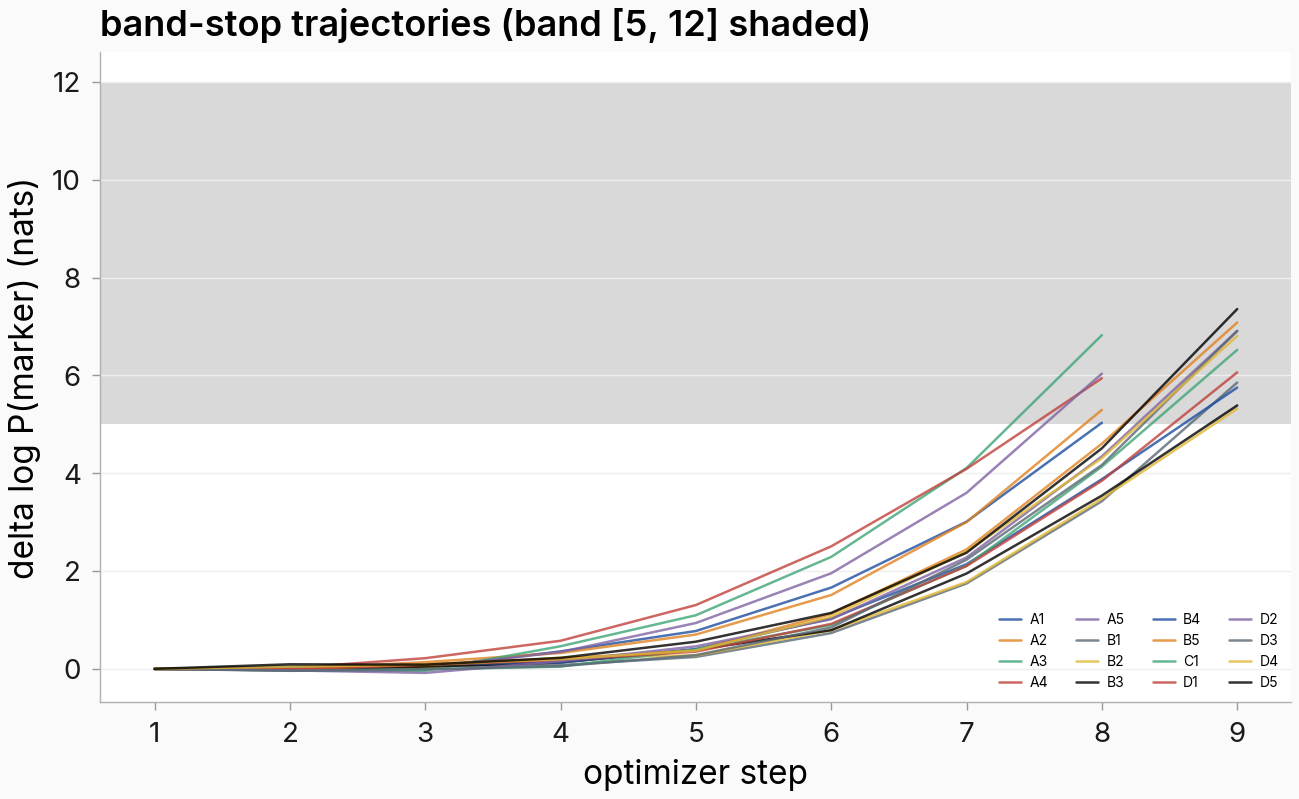
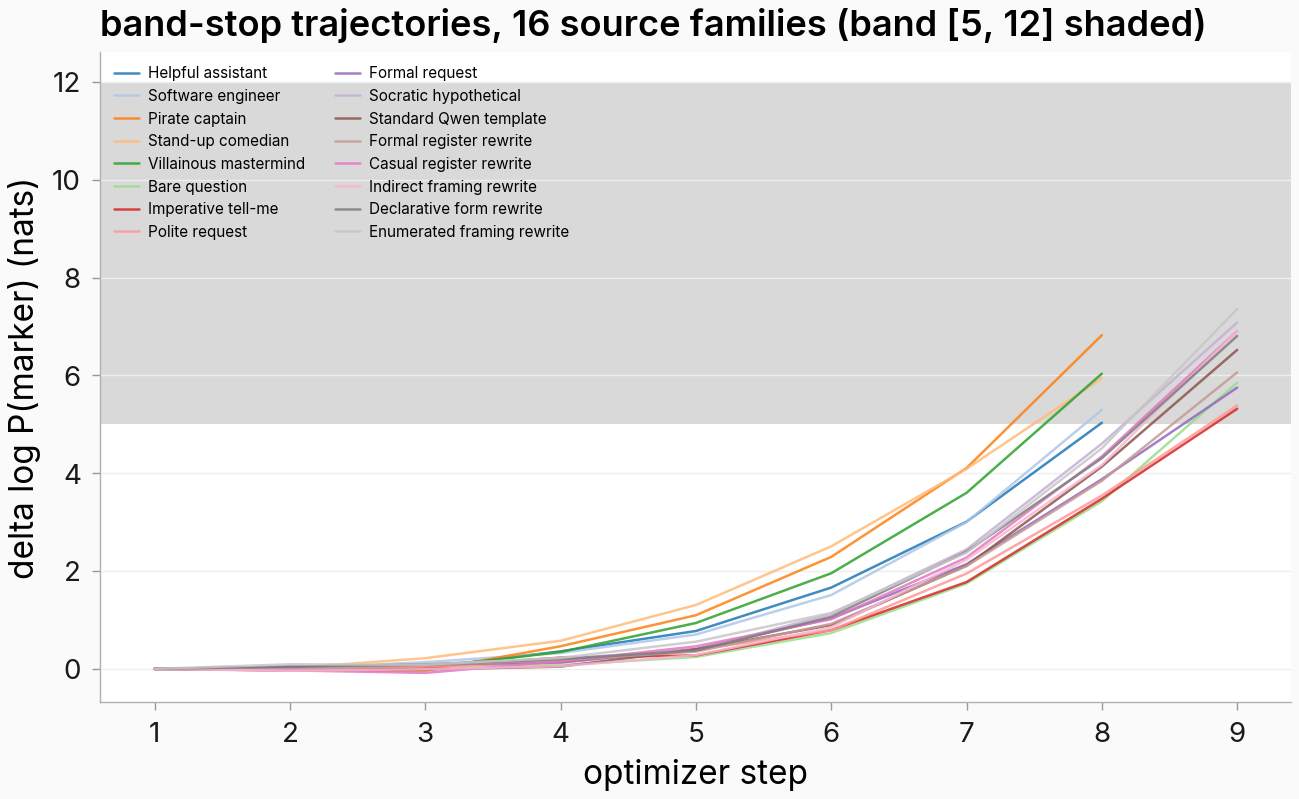
issue #1332 lowdose revision r2: margin-DV permutation band (sensitivity.margin_band), margin scatter figure, plain-English trajectory legend

diff --git a/scripts/issue1332_lowdose_margin_band.py b/scripts/issue1332_lowdose_margin_band.py
@@ -1,0 +1,149 @@
+"""Issue #1332 low-dose revision round 2: margin-DV permutation band + figure refresh.
+
+Interpretation-critic finding 1(c) (fold `lowdose-grid-kill-battery`, round 1):
+the secondary marker-vs-EOS margin DV read rho = 0.470 on the low-dose grid —
+higher than the registered log-prob read (0.257) and reversing the parent's
+space ordering — but carried no permutation band. This script adjudicates it
+with the SAME batched machinery the registered null used
+(`shuffled_pairing_null`, target-label permutation, B = 10,000, seed 1,
+abs p97.5), writes the result into
+``eval_results/issue_1332/lowdose/analysis.json`` under
+``sensitivity.margin_band``, renders the per-cell margin scatter
+(`lowdose_margin_scatter.png`), and re-renders the band-trajectories figure
+with plain-English source-family labels (finding 4).
+
+VM CPU, seconds; run with the shared-VM thread-cap prefix.
+"""
+
+from __future__ import annotations
+
+import json
+import logging
+import sys
+from pathlib import Path
+
+sys.path.insert(0, str(Path(__file__).resolve().parent))
+
+import issue1332_common as C
+from issue1332_analysis import (
+    N_NULL_DEFAULT,
+    NULL_SEED,
+    load_similarity,
+    shuffled_pairing_null,
+    spearman,
+    sub_matrix,
+)
+from issue1332_lowdose_analysis import (
+    FROZEN_LAYER,
+    _paper_style,
+    load_lowdose_leakage,
+    trajectories_figure,
+)
+
+logger = logging.getLogger("issue1332.lowdose_margin_band")
+
+
+def margin_scatter_figure(fig_dir: Path, S_dir, L_margin, mask, sources, targets) -> str:
+    """Per-cell scatter of directional similarity vs the margin DV (stylized orange)."""
+    _paper_style()
+    import matplotlib.pyplot as plt
+    import numpy as np
+
+    fig_dir.mkdir(parents=True, exist_ok=True)
+    styl = set(C.STYLIZED_CIDS)
+    colors = np.array(
+        [
+            "#D55E00" if (sources[i] in styl or targets[j] in styl) else "#0072B2"
+            for i in range(len(sources))
+            for j in range(len(targets))
+            if mask[i, j]
+        ]
+    )
+    fig, ax = plt.subplots(figsize=(4.8, 4), layout="constrained")
+    ax.scatter(S_dir[mask], L_margin[mask], s=12, c=colors, alpha=0.7)
+    ax.set_xlabel("S_dir (held-out transfer R^2, i->j)")
+    ax.set_ylabel("marker-vs-EOS margin delta (trained - base)")
+    ax.set_title("low-dose margin DV vs directional similarity")
+    p = fig_dir / "lowdose_margin_scatter.png"
+    fig.savefig(p, dpi=200)
+    plt.close(fig)
+    return str(p)
+
+
+def main() -> int:
+    """Compute the margin-DV permutation band, update analysis.json, refresh figures."""
+    logging.basicConfig(level=logging.INFO, format="%(asctime)s [%(levelname)s] %(message)s")
+    import numpy as np
+
+    res_in = C.results_dir(False)
+    lowdose_in = res_in / "lowdose"
+    fig_dir = C.figures_dir(False) / "lowdose"
+
+    freeze = json.loads((res_in / "layer_freeze.json").read_text())
+    assert freeze["l_star"] == FROZEN_LAYER, freeze
+    sim = load_similarity(res_in, FROZEN_LAYER)
+    families = sim["families"]
+
+    remeasured_dir = lowdose_in / "per_cell_base_remeasured"
+    leak = load_lowdose_leakage(
+        lowdose_in / "per_cell_trained", remeasured_dir if remeasured_dir.is_dir() else None
+    )
+    sources, targets = leak["sources"], leak["targets"]
+    L_margin = leak["L_margin"]
+    mask = C.offdiag_mask(sources, targets)
+
+    S_dir = sub_matrix(sim["S_trans"], families, sources, targets)
+    S_sym = sub_matrix(sim["S_sym"], families, sources, targets)
+
+    ana_path = lowdose_in / "analysis.json"
+    ana = json.loads(ana_path.read_text())
+
+    rho_dir = spearman(S_dir[mask], L_margin[mask])
+    rho_sym = spearman(S_sym[mask], L_margin[mask])
+    stored_dir = ana["sensitivity"]["rho_dir_margin_dv"]
+    assert abs(rho_dir - stored_dir) < 1e-9, (rho_dir, stored_dir)
+
+    null_dir = shuffled_pairing_null(
+        S_dir, L_margin, mask, n_draws=N_NULL_DEFAULT, seed=NULL_SEED, axis="target"
+    )
+    null_sym = shuffled_pairing_null(
+        S_sym, L_margin, mask, n_draws=N_NULL_DEFAULT, seed=NULL_SEED, axis="target"
+    )
+    band = {
+        "dv": "trained - base mean_marker_eos_margin (secondary margin DV)",
+        "null": "target-family-label permutation of S (source-preserving), same machinery "
+        "as the registered log-prob null (shuffled_pairing_null)",
+        "n_draws": N_NULL_DEFAULT,
+        "seed": NULL_SEED,
+        "rho_dir_margin_dv": rho_dir,
+        "dir_p975_abs_rho": float(np.quantile(np.abs(null_dir), 0.975)),
+        "dir_p_two_sided": float((np.abs(null_dir) >= abs(rho_dir)).mean()),
+        "dir_clears_band": bool(abs(rho_dir) > float(np.quantile(np.abs(null_dir), 0.975))),
+        "rho_sym_margin_dv": rho_sym,
+        "sym_p975_abs_rho": float(np.quantile(np.abs(null_sym), 0.975)),
+        "sym_p_two_sided": float((np.abs(null_sym) >= abs(rho_sym)).mean()),
+    }
+    ana["sensitivity"]["margin_band"] = band
+    logger.info(
+        "[margin-band] dir rho=%.4f band=%.4f p=%.4f clears=%s | sym rho=%.4f band=%.4f p=%.4f",
+        rho_dir,
+        band["dir_p975_abs_rho"],
+        band["dir_p_two_sided"],
+        band["dir_clears_band"],
+        rho_sym,
+        band["sym_p975_abs_rho"],
+        band["sym_p_two_sided"],
+    )
+
+    fig_margin = margin_scatter_figure(fig_dir, S_dir, L_margin, mask, sources, targets)
+    fig_traj = trajectories_figure(fig_dir, lowdose_in / "band_trajectories")
+    for f in (fig_margin, fig_traj):
+        if f and f not in ana.get("figures", []):
+            ana.setdefault("figures", []).append(f)
+    C.write_json_atomic(ana_path, ana)
+    logger.info("[done] %s updated; figures: %s, %s", ana_path, fig_margin, fig_traj)
+    return 0
+
+
+if __name__ == "__main__":
+    raise SystemExit(main())

diff --git a/scripts/issue1332_lowdose_analysis.py b/scripts/issue1332_lowdose_analysis.py
@@ -265,6 +265,49 @@ def forest_figure(fig_dir: Path, rows, title: str, fname: str) -> str:
     return str(p)
 
 
+def trajectories_figure(fig_dir: Path, traj_dir: Path) -> str | None:
+    """Band-stop trajectory figure with plain-English source-family legend.
+
+    Reads per-source ``band_trajectories/*.json`` (skipping ``*_bracket.json``),
+    labels each line with the condition's plain-English ``name`` from
+    ``i406_conditions.CONDITIONS`` (per the no-opaque-condition-codes rule),
+    and returns the PNG path (None when the dir holds no trajectories).
+    """
+    _paper_style()
+    import matplotlib.pyplot as plt
+
+    from explore_persona_space.experiments.i406_conditions import CONDITIONS
+
+    name_by_cid = {c.cid: c.name for c in CONDITIONS}
+    paths = sorted(traj_dir.glob("*.json"))
+    paths = [p for p in paths if not p.name.endswith("_bracket.json")]
+    if not paths:
+        return None
+    fig_dir.mkdir(parents=True, exist_ok=True)
+    fig, ax = plt.subplots(figsize=(6.5, 4), layout="constrained")
+    cmap = plt.get_cmap("tab20")
+    for k, tp in enumerate(paths):
+        d = json.loads(tp.read_text())
+        if "steps" in d and "delta_nats" in d:
+            ax.plot(
+                d["steps"],
+                d["delta_nats"],
+                lw=0.9,
+                alpha=0.85,
+                color=cmap(k % 20),
+                label=name_by_cid.get(tp.stem, tp.stem),
+            )
+    ax.axhspan(5.0, 12.0, color="0.85", zorder=0)
+    ax.set_xlabel("optimizer step")
+    ax.set_ylabel("delta log P(marker) (nats)")
+    ax.set_title("band-stop trajectories, 16 source families (band [5, 12] shaded)")
+    ax.legend(fontsize=5.5, ncols=2, frameon=False, loc="upper left")
+    p = fig_dir / "lowdose_band_trajectories.png"
+    fig.savefig(p, dpi=200)
+    plt.close(fig)
+    return str(p)
+
+
 def make_lowdose_figures(fig_dir: Path, ctx: dict) -> list[str]:
     """Hero forest + scatters (raw beside residualized) + heatmap + parent-vs-
     lowdose per-cell scatter + band trajectories + LOFO fold bars."""
@@ -342,23 +385,9 @@ def make_lowdose_figures(fig_dir: Path, ctx: dict) -> list[str]:
     # band-entry trajectories (present only after the production run)
     traj_dir = ctx.get("traj_dir")
     if traj_dir is not None and Path(traj_dir).is_dir():
-        paths = sorted(Path(traj_dir).glob("*.json"))
-        paths = [p for p in paths if not p.name.endswith("_bracket.json")]
-        if paths:
-            fig, ax = plt.subplots(figsize=(6.5, 4), layout="constrained")
-            for tp in paths:
-                d = json.loads(tp.read_text())
-                if "steps" in d and "delta_nats" in d:
-                    ax.plot(d["steps"], d["delta_nats"], lw=0.9, alpha=0.8, label=tp.stem)
-            ax.axhspan(5.0, 12.0, color="0.85", zorder=0)
-            ax.set_xlabel("optimizer step")
-            ax.set_ylabel("delta log P(marker) (nats)")
-            ax.set_title("band-stop trajectories (band [5, 12] shaded)")
-            ax.legend(fontsize=5, ncols=4, frameon=False)
-            p = fig_dir / "lowdose_band_trajectories.png"
-            fig.savefig(p, dpi=200)
-            plt.close(fig)
-            figs.append(str(p))
+        p_traj = trajectories_figure(fig_dir, Path(traj_dir))
+        if p_traj is not None:
+            figs.append(p_traj)
 
     # LOFO per-fold bars (registered target-axis full stack)
     per_fold = ctx["lofo"]["target_full"]["per_fold_spearman"]
